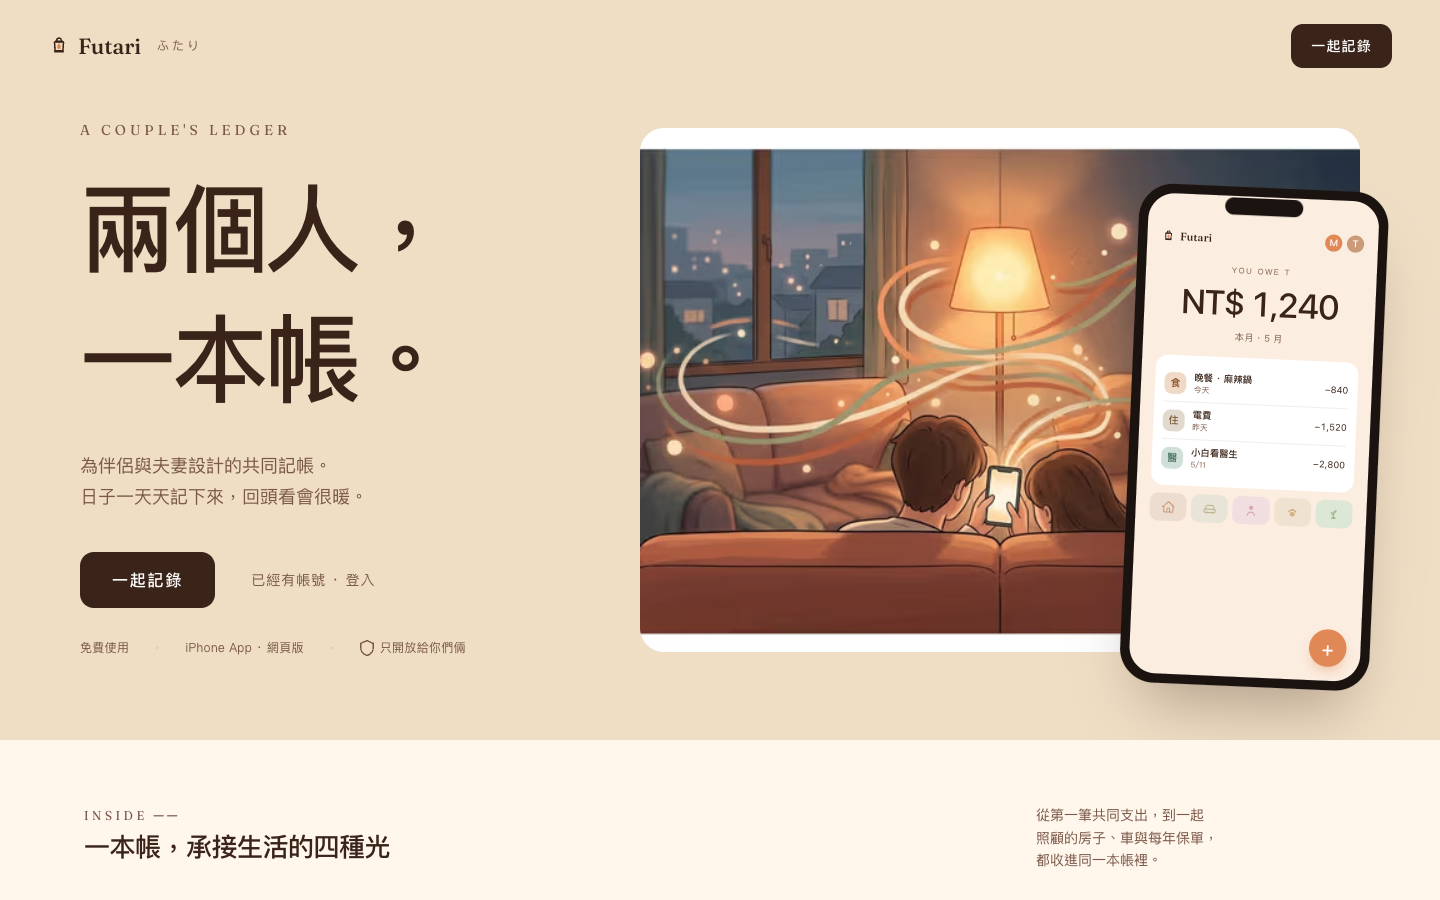
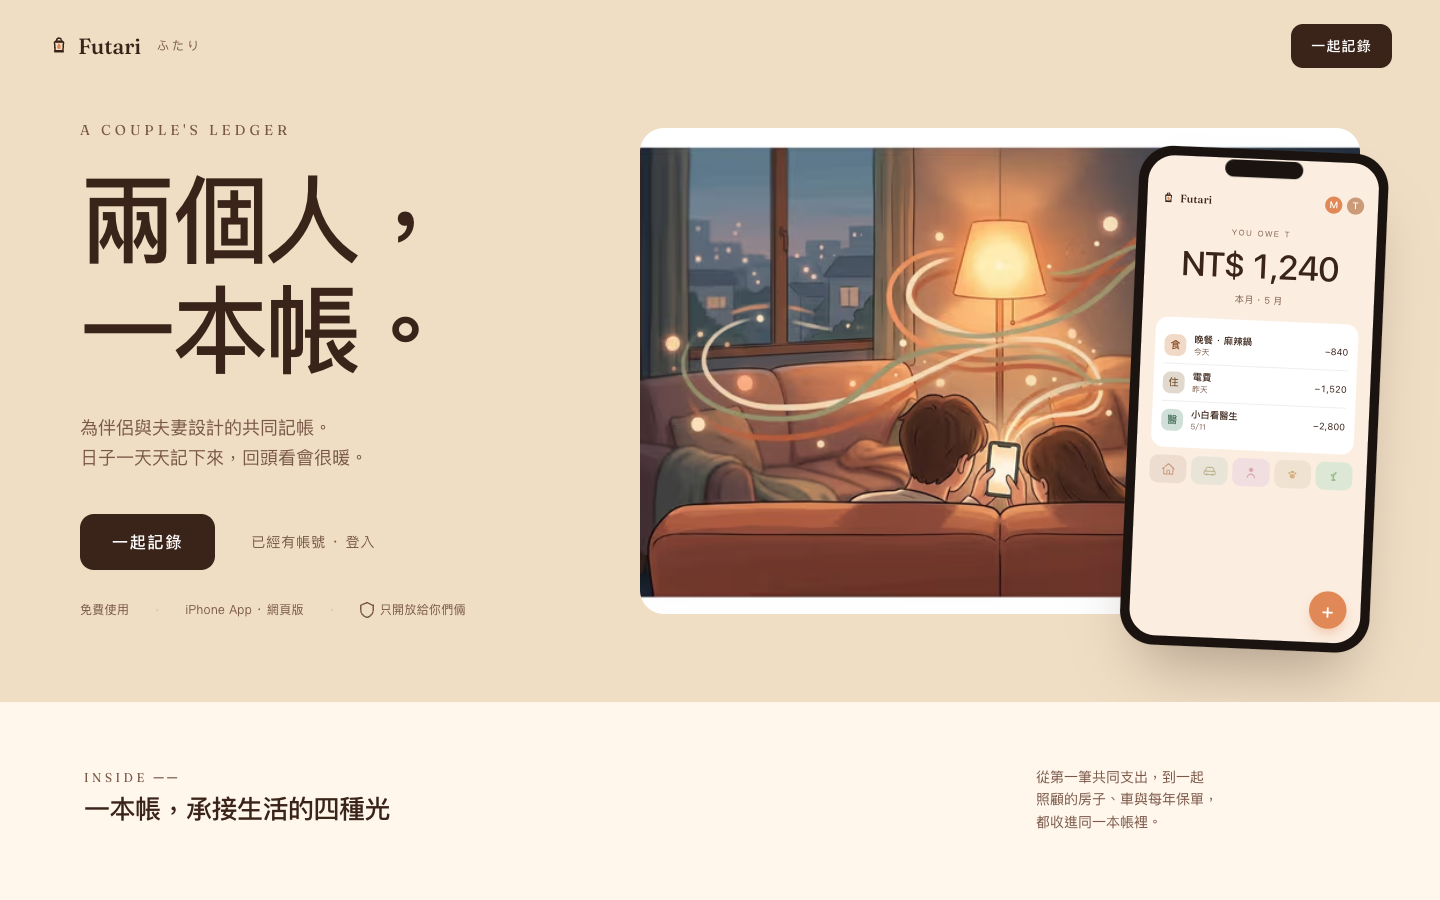
fix(design): 首頁大標中日文行高維持 1.15（.cjk-d）(#1849)
照 Daphne 的決定：首頁 h1 和兩個 tagline span 加 .cjk-d，
中日文行高 1.15（桌面 110.4px），字重仍是 500。h2 和記帳首頁卡片
維持 1.35，en 不變。擋渲染 CSS gzip 13,153 → 13,159 B。

diff --git a/app/[locale]/_landing/Landing.tsx b/app/[locale]/_landing/Landing.tsx
@@ -175,7 +175,7 @@ export function Landing({ t, signInHref, dashboardHref, androidBetaHref, checkin
             </p>
 
             <h1
-              className="cjk-h m-0 leading-none md:leading-[1]"
+              className="cjk-h cjk-d m-0 leading-none md:leading-[1]"
               style={{
                 fontFamily: 'var(--font-fraunces)',
                 fontWeight: 500,
@@ -188,7 +188,7 @@ export function Landing({ t, signInHref, dashboardHref, androidBetaHref, checkin
                   even though per-character it's smaller; lh 1.15 keeps
                   the block tight, letter-spacing -1px tightens CJK rhythm. */}
               <span
-                className="cjk-h ph md:hidden block text-display-tagline font-normal leading-[1.15]"
+                className="cjk-h cjk-d ph md:hidden block text-display-tagline font-normal leading-[1.15]"
                 style={{
                   letterSpacing: '-1px',
                 }}
@@ -196,7 +196,7 @@ export function Landing({ t, signInHref, dashboardHref, androidBetaHref, checkin
               />
               {/* desktop: tagline as the giant headline */}
               <span
-                className="cjk-h ph hidden md:inline text-display-tagline-lg"
+                className="cjk-h cjk-d ph hidden md:inline text-display-tagline-lg"
                 style={{
                   letterSpacing: '-3.5px',
                 }}

diff --git a/tests/cjk-serif-fallback.test.ts b/tests/cjk-serif-fallback.test.ts
@@ -90,6 +90,9 @@ describe('CJK serif heading fallback stack (#1849)', () => {
   // so they opt in with .cjk-h, which is unlayered to beat leading-*/font-*.
   it('applies the CJK heading rule to inline-serif titles via unlayered .cjk-h', () => {
     expect(globalsCss).toMatch(/\n\.cjk-h:is\(:lang\(zh\),:lang\(ja\)\)\{font-weight:500;line-height:1\.35\}/)
+    // The landing display headline keeps 1.15 (#1859 round 3): h1 + its two tagline spans only.
+    expect(globalsCss).toMatch(/\n\.cjk-d:is\(:lang\(zh\),:lang\(ja\)\)\{line-height:1\.15\}/)
+    expect(globalsCss.indexOf('.cjk-d:is(')).toBeGreaterThan(globalsCss.indexOf('.cjk-h:is('))
     const uses: Array<[string, number]> = [
       ['app/[locale]/_landing/Landing.tsx', 6],
       ['app/(dashboard)/dashboard/_components/WelcomeSoloCard.tsx', 1],
@@ -105,5 +108,6 @@ describe('CJK serif heading fallback stack (#1849)', () => {
     // CJK can override it; en still renders 400 / 1.15.
     const landing = readFileSync(join(REPO_ROOT, 'app/[locale]/_landing/Landing.tsx'), 'utf8')
     expect(landing).toContain('text-display-tagline font-normal leading-[1.15]')
+    expect(landing.match(/cjk-d /g)?.length).toBe(3)
   })
 })

diff --git a/app/globals.css b/app/globals.css
@@ -378,8 +378,10 @@ body {
  * no visual change. The same goes for the landing HTML (gzip ~29.1 KB). */
 @layer base{:is(h1,h2,h3).font-serif:is(:lang(zh),:lang(ja)){font-weight:500;line-height:1.35}}
 /* .cjk-h: serif titles whose font is set inline (landing, dashboard cards), so
- * no .font-serif. Unlayered so it beats leading-* and font-* utilities. */
+ * no .font-serif. Unlayered so it beats leading-* and font-* utilities.
+ * .cjk-d: the landing display headline keeps a tight 1.15 (Daphne, #1859). */
 .cjk-h:is(:lang(zh),:lang(ja)){font-weight:500;line-height:1.35}
+.cjk-d:is(:lang(zh),:lang(ja)){line-height:1.15}
 .brand{display:contents}
 :is(.brand,.font-serif,.cjk-h):is(:lang(zh),:lang(ja)){line-break:strict;word-break:auto-phrase;font-synthesis-style:none}
 .brand :is(h1,h2,h3,dt,p,li,dd){text-wrap:balance}
